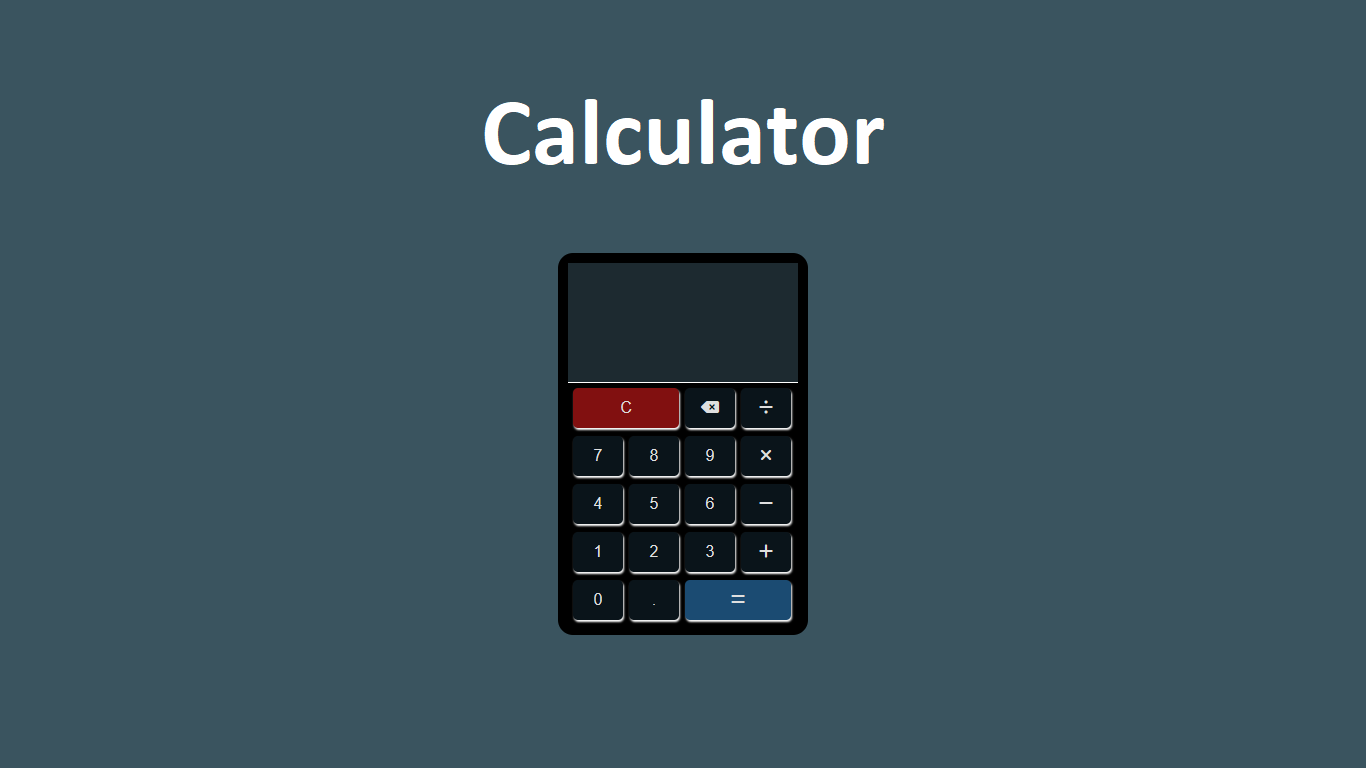
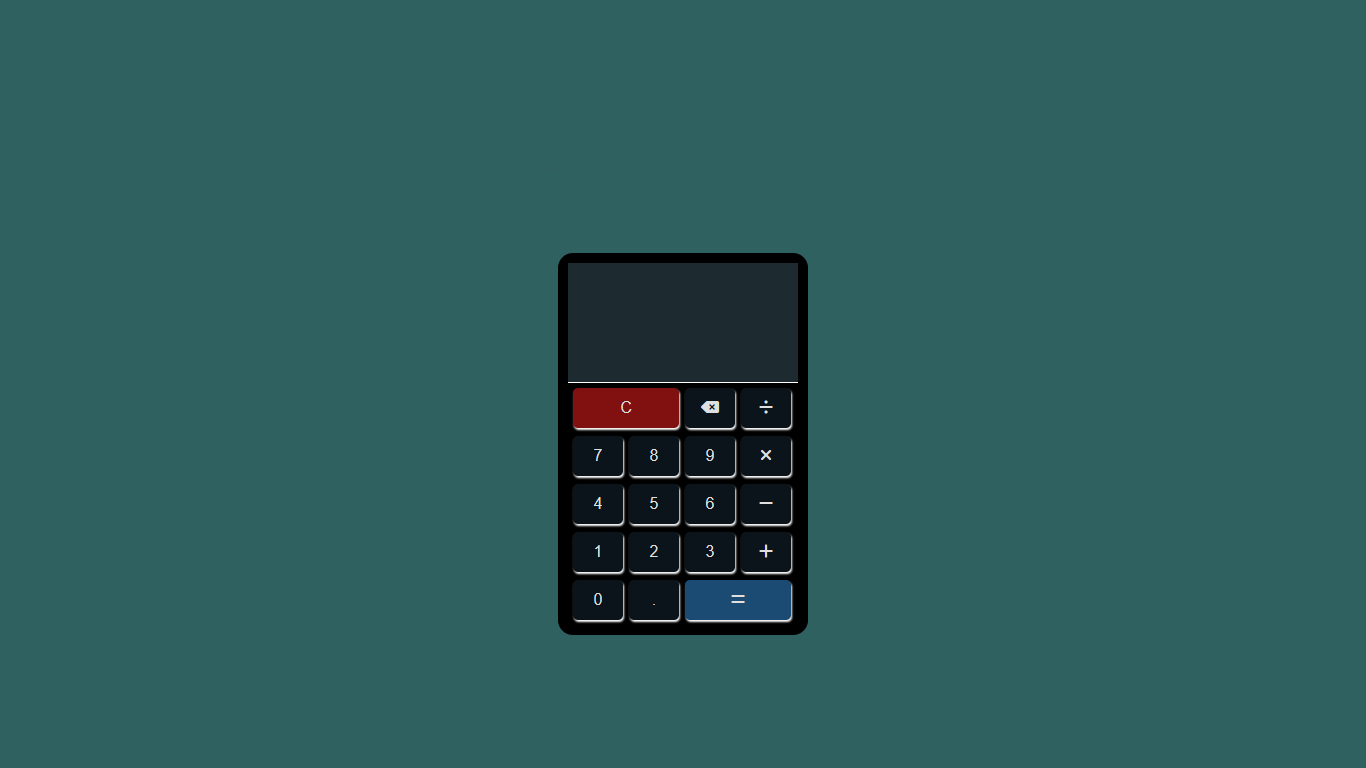
finaliza projetos

Changed region(s): [[0.3382, 0.125, 0.6457, 0.2188]]

diff --git a/src/Components/Projects/Projects.jsx b/src/Components/Projects/Projects.jsx
@@ -33,7 +33,7 @@ const Projects=()=> {
                 <div className="project-content">
                     <div className="project-link">
                         <h3>Calculator</h3>
-                        <a href="" target='blank'><img src={CalculatorImg} alt="calculadora" /></a>
+                        <a href=" https://wagnermm.github.io/calculator-js/" target='blank'><img src={CalculatorImg} alt="calculadora" /></a>
                     </div>
                 </div>
                 <div className="project-content">

diff --git a/src/Components/About/About.css b/src/Components/About/About.css
@@ -51,21 +51,6 @@
     border-radius: 5px;
 }
 
-.tecnologies-box img:hover {
-    cursor: pointer;
-    top:-2px;box-shadow:0 2px 2px #666;
-    animation: animation-img linear 5s;
-    border-radius: 0;
-}
-
-@keyframes animation-img {
-    0% {width: 35%;}
-
-    50% {width: 30%;}
-
-    100% {width: 35%;}
-}
-
 @media (max-width: 768px) {
     .aboutMe {
         padding: 5px;

diff --git a/src/Components/Projects/Projects.css b/src/Components/Projects/Projects.css
@@ -36,7 +36,7 @@
 }
 
 .project-link {
-    color: #681c34;
+    color: rgba(7,1,21,1);
     font-weight: 600;
     display: flex;
     flex-direction: column;
